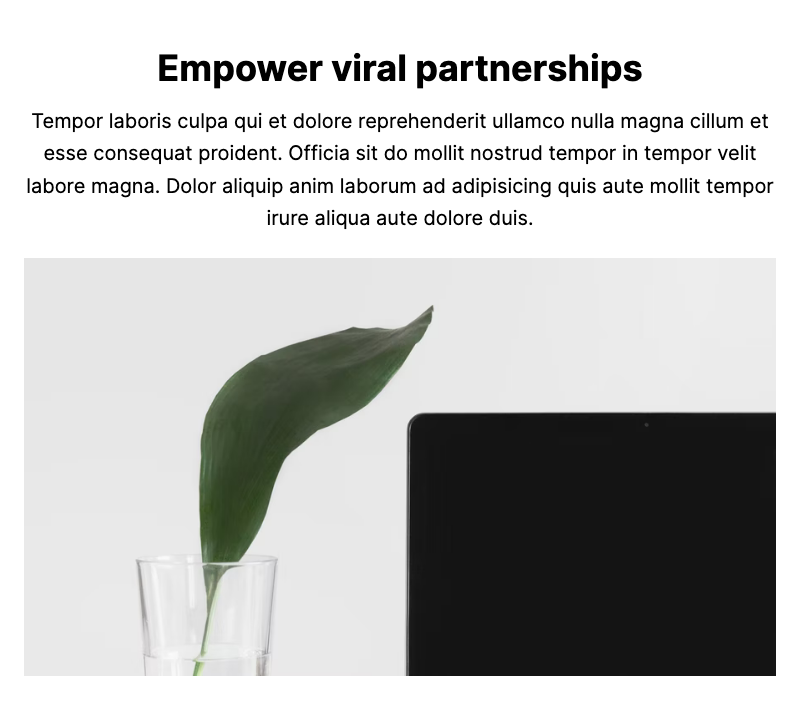
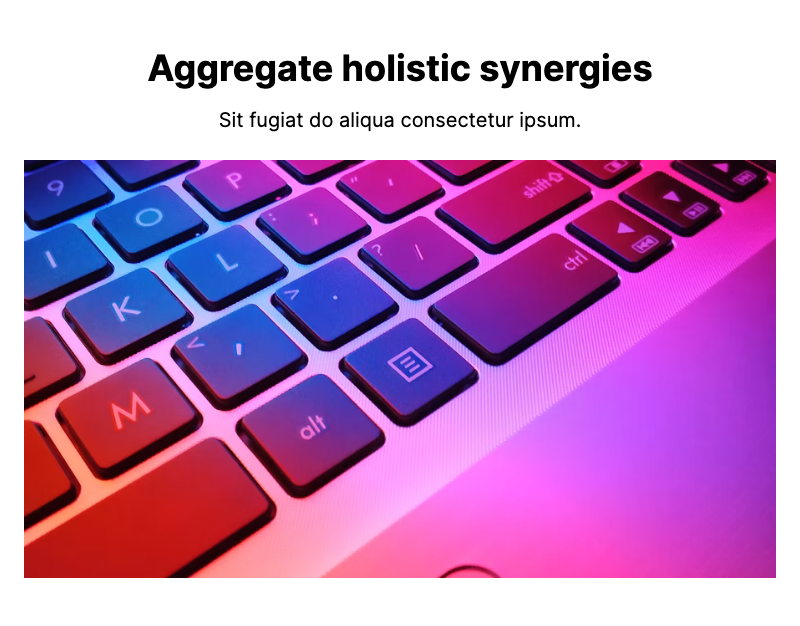
updated index file

diff --git a/.slicemachine/assets/slices/EmailSignup/index.stories.js b/.slicemachine/assets/slices/EmailSignup/index.stories.js
@@ -5,5 +5,5 @@ export default {
 }
 
 
-export const _DefaultSlice = () => <MyComponent slice={{"variation":"DefaultSlice","name":"DefaultSlice","slice_type":"email_signup","items":[],"primary":{"sectionTitle":[{"type":"heading1","text":"Utilize mission-critical architectures","spans":[]}],"description":[{"type":"paragraph","text":"Consectetur qui consectetur proident sit eu eiusmod. Mollit minim pariatur esse id enim nisi ad exercitation proident consequat dolor cillum incididunt commodo. Culpa enim ut eu qui ea ex nostrud laborum.","spans":[]}],"inputLabel":[{"type":"paragraph","text":"Quis veniam duis ut sint incididunt anim veniam.","spans":[]}],"inputPlaceholder":[{"type":"paragraph","text":"Velit et exercitation elit adipisicing est enim eu duis ex. Eu enim nisi adipisicing in Lorem incididunt ut aliqua non aliquip. Culpa aliquip occaecat pariatur cillum incididunt.","spans":[]}],"buttonText":[{"type":"paragraph","text":"Est consequat do commodo exercitation pariatur deserunt laboris aliqua.","spans":[]}]},"id":"_DefaultSlice"}} />
+export const _DefaultSlice = () => <MyComponent slice={{"variation":"DefaultSlice","name":"DefaultSlice","slice_type":"email_signup","items":[],"primary":{"sectionTitle":[{"type":"heading1","text":"Extend sticky interfaces","spans":[]}],"description":[{"type":"paragraph","text":"Nostrud pariatur deserunt eu fugiat eu aliquip magna labore laborum. Consequat et esse ipsum consectetur officia adipisicing id excepteur. Voluptate sunt eu ipsum elit aliqua eiusmod duis esse sint quis sint et officia.","spans":[]}],"inputLabel":[{"type":"paragraph","text":"Aliquip in fugiat sint enim fugiat. Eu eiusmod sint nulla in excepteur velit anim magna dolor sunt fugiat qui consequat. Tempor et cupidatat duis esse et magna fugiat voluptate.","spans":[]}],"inputPlaceholder":[{"type":"paragraph","text":"Sint laboris dolore et reprehenderit tempor occaecat incididunt. Proident dolore adipisicing cillum adipisicing ullamco nostrud ullamco elit velit duis aliquip. Dolor non pariatur deserunt est exercitation voluptate esse laborum adipisicing ex laboris et.","spans":[]}],"buttonText":[{"type":"paragraph","text":"Reprehenderit reprehenderit commodo aliqua quis fugiat consequat anim officia sunt aliqua labore ipsum ea.","spans":[]}]},"id":"_DefaultSlice"}} />
 _DefaultSlice.storyName = 'DefaultSlice'

diff --git a/.slicemachine/assets/slices/InfoWithImage/index.stories.js b/.slicemachine/assets/slices/InfoWithImage/index.stories.js
@@ -5,5 +5,5 @@ export default {
 }
 
 
-export const _DefaultSlice = () => <MyComponent slice={{"variation":"default-slice","name":"Default slice","slice_type":"info_with_image","items":[],"primary":{"featuredImage":{"dimensions":{"width":600,"height":690},"alt":"Placeholder image","copyright":null,"url":"https://images.unsplash.com/photo-1585399000684-d2f72660f092?w=600&h=690&fit=crop","tablet":{"dimensions":{"width":800,"height":400},"alt":"Placeholder image","copyright":null,"url":"https://images.unsplash.com/photo-1585399000684-d2f72660f092?w=800&h=400&fit=crop"},"mobile":{"dimensions":{"width":400,"height":300},"alt":"Placeholder image","copyright":null,"url":"https://images.unsplash.com/photo-1585399000684-d2f72660f092?w=400&h=300&fit=crop"}},"sectionTitle":[{"type":"heading1","text":"Cultivate cutting-edge e-business","spans":[]}],"text":[{"type":"paragraph","text":"Magna non incididunt anim est nisi.","spans":[]}]},"id":"_DefaultSlice"}} />
+export const _DefaultSlice = () => <MyComponent slice={{"variation":"default-slice","name":"Default slice","slice_type":"info_with_image","items":[],"primary":{"featuredImage":{"dimensions":{"width":600,"height":690},"alt":"Placeholder image","copyright":null,"url":"https://images.unsplash.com/photo-1585399000684-d2f72660f092?w=600&h=690&fit=crop","tablet":{"dimensions":{"width":800,"height":400},"alt":"Placeholder image","copyright":null,"url":"https://images.unsplash.com/photo-1585399000684-d2f72660f092?w=800&h=400&fit=crop"},"mobile":{"dimensions":{"width":400,"height":300},"alt":"Placeholder image","copyright":null,"url":"https://images.unsplash.com/photo-1585399000684-d2f72660f092?w=400&h=300&fit=crop"}},"sectionTitle":[{"type":"heading1","text":"Extend impactful portals","spans":[]}],"text":[{"type":"paragraph","text":"Ad dolor magna adipisicing anim.","spans":[]}]},"id":"_DefaultSlice"}} />
 _DefaultSlice.storyName = 'Default slice'

diff --git a/.slicemachine/assets/slices/HeadlineWithButton/index.stories.js b/.slicemachine/assets/slices/HeadlineWithButton/index.stories.js
@@ -5,5 +5,5 @@ export default {
 }
 
 
-export const _DefaultSlice = () => <MyComponent slice={{"variation":"default-slice","name":"Default slice","slice_type":"headline_with_button","items":[],"primary":{"headline":[{"type":"heading1","text":"Empower viral partnerships","spans":[]}],"description":[{"type":"paragraph","text":"Tempor laboris culpa qui et dolore reprehenderit ullamco nulla magna cillum et esse consequat proident. Officia sit do mollit nostrud tempor in tempor velit labore magna. Dolor aliquip anim laborum ad adipisicing quis aute mollit tempor irure aliqua aute dolore duis.","spans":[]}],"button":{"dimensions":{"width":900,"height":500},"alt":"Placeholder image","copyright":null,"url":"https://images.unsplash.com/photo-1471897488648-5eae4ac6686b?w=900&h=500&fit=crop"}},"id":"_DefaultSlice"}} />
+export const _DefaultSlice = () => <MyComponent slice={{"variation":"default-slice","name":"Default slice","slice_type":"headline_with_button","items":[],"primary":{"headline":[{"type":"heading1","text":"Aggregate holistic synergies","spans":[]}],"description":[{"type":"paragraph","text":"Sit fugiat do aliqua consectetur ipsum.","spans":[]}],"button":{"dimensions":{"width":900,"height":500},"alt":"Placeholder image","copyright":null,"url":"https://images.unsplash.com/photo-1560762484-813fc97650a0?w=900&h=500&fit=crop"}},"id":"_DefaultSlice"}} />
 _DefaultSlice.storyName = 'Default slice'

diff --git a/.slicemachine/assets/slices/TextInfo/index.stories.js b/.slicemachine/assets/slices/TextInfo/index.stories.js
@@ -5,5 +5,5 @@ export default {
 }
 
 
-export const _DefaultSlice = () => <MyComponent slice={{"variation":"default-slice","name":"Default slice","slice_type":"text_info","items":[],"primary":{"title":[{"type":"heading1","text":"Grow out-of-the-box partnerships","spans":[]}],"description":[{"type":"paragraph","text":"Ut cupidatat aute nostrud laboris Lorem aliquip elit. Anim duis velit dolor officia ea culpa quis aliquip veniam laborum est laboris elit sunt.","spans":[]}]},"id":"_DefaultSlice"}} />
+export const _DefaultSlice = () => <MyComponent slice={{"variation":"default-slice","name":"Default slice","slice_type":"text_info","items":[],"primary":{"sectionTitle":[{"type":"heading1","text":"Incentivize B2C e-tailers","spans":[]}],"leftColumnText":[{"type":"paragraph","text":"Cillum irure nulla officia velit Lorem esse eiusmod esse esse Lorem aliqua voluptate aliquip aliquip. Eu cupidatat amet duis nostrud nulla aliqua.","spans":[]}],"rightColumnText":[{"type":"paragraph","text":"Ad ex eu ipsum Lorem consectetur est occaecat nulla. Commodo excepteur id reprehenderit consectetur duis sunt non duis cillum nostrud aliquip. Ex incididunt incididunt nulla commodo aliqua est sint dolor.","spans":[]}]},"id":"_DefaultSlice"}} />
 _DefaultSlice.storyName = 'Default slice'
